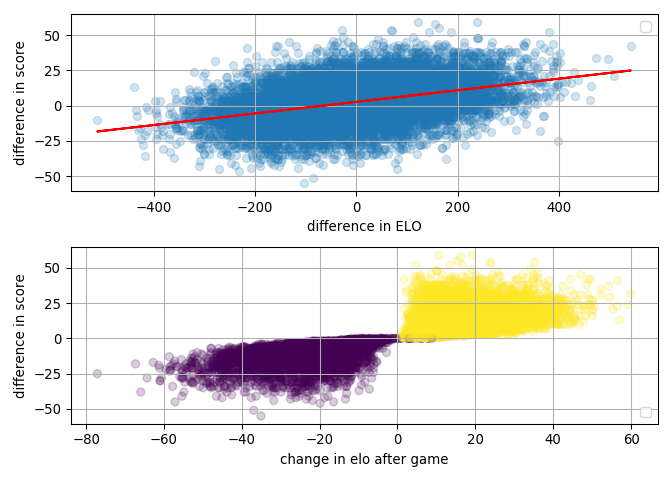
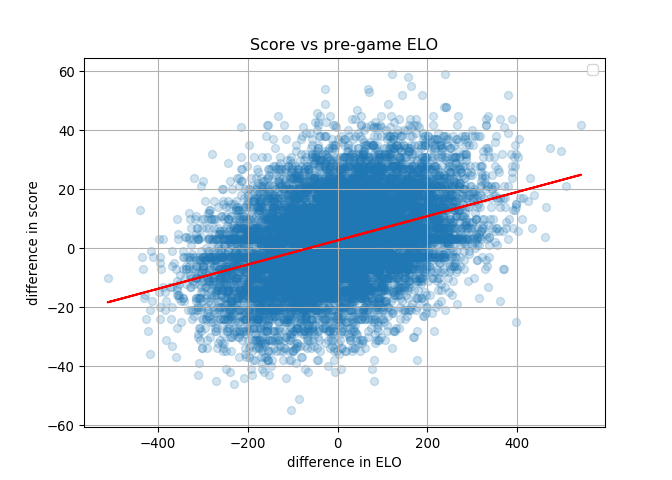
add ggplot

diff --git a/EDA/EDA_milestone2.md b/EDA/EDA_milestone2.md
@@ -111,8 +111,12 @@ Untitled
     ## 
     ## [11236 rows x 19 columns]
 
-    ## [Text(0, 0.5, 'difference in score'), Text(0.5, 0, 'difference in ELO')]
-
-    ## [Text(0, 0.5, 'difference in score'), Text(0.5, 0, 'change in elo after game')]
+    ## [Text(0, 0.5, 'difference in score'), Text(0.5, 0, 'difference in ELO'), Text(0.5, 1.0, 'Score vs pre-game ELO')]
 
 <img src="/home/franklu/MDS/Workflows_Group_306/EDA/EDA_milestone2_files/figure-gfm/unnamed-chunk-4-1.png" width="672" />
+
+    ## [Text(0, 0.5, 'difference in score'), Text(0.5, 0, 'change in elo after game'), Text(0.5, 1.0, 'Post-game ELO vs result')]
+
+<img src="/home/franklu/MDS/Workflows_Group_306/EDA/EDA_milestone2_files/figure-gfm/unnamed-chunk-4-2.png" width="672" />
+
+![](EDA_milestone2_files/figure-gfm/plot-1.png)<!-- -->
